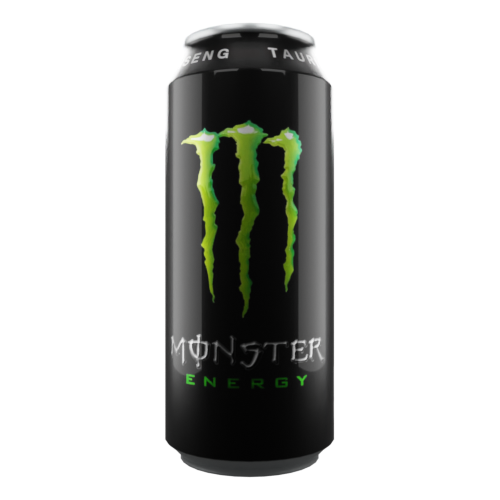
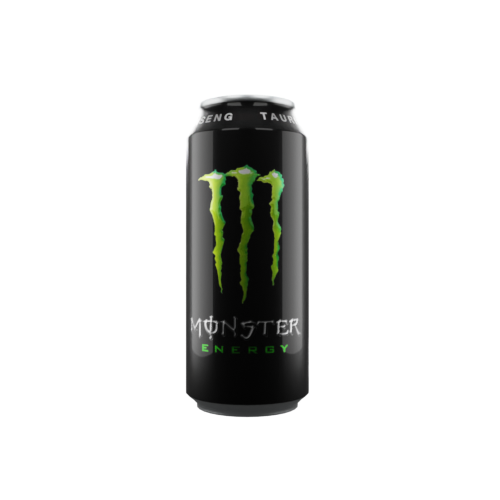
Lagt till kod i CSS som visar produkt och produktanimation när ma hoverar. Lagt till nya bilder för Monsterburken. Lagt till kod i HTML som implementerar bilderna.

Changed region(s): [[0.33, 0.03, 0.69, 0.96]]

diff --git a/index.html b/index.html
@@ -30,63 +30,63 @@
         <div class="outer-container">
             <div class="container">
                 <div class="item box-shadow">
-                    <div class="image"><img class="animation" src="../CanInteBan/images/DrPepperGIF.gif"></div>
+                    <div class="image" style="--initial-image: url('../images/DrPepperPNG.png'); --hover-image: url('../images/DrPepperGIF.gif');"></div>
                     <div class="text-center">DrPepper</div>
                     <div>inklusive pant</div>
                     <div class="pris"><span id="celcius_price">30.00</span> kr</div>
                     <button onclick="addItem('Celsius', 30, 'index')">+</button>
                 </div>
                 <div class="item box-shadow">
-                    <div class="image"><img class="animation" src="../CanInteBan/images/CocaColaGIF.gif"></div>
+                    <div class="image" style="--initial-image: url('../images/CocaColaPNG.png'); --hover-image: url('../images/CocaColaGIF.gif');"></div>
                     <div class="text-center">Coca Cola</div>
                     <div>inklusive pant</div>
                     <div class="pris"><span id="cola_price">17.00</span> kr</div>
                     <button onclick="addItem('Coca Cola', 17, 'index')">+</button>
                 </div>
                 <div class="item box-shadow">
-                    <div class="image"><img class="animation" src="../CanInteBan/images/PepsiMaxGIF.gif"></div>
+                    <div class="image" style="--initial-image: url('../images/PepsiPNG.png'); --hover-image: url('../images/PepsiGIF.gif');"></div>
                     <div class="text-center">Pepsi Max</div>
                     <div>inklusive pant</div>
                     <div class="pris"><span id="cola_zero_price">17.00</span> kr</div>
                     <button onclick="addItem('Coca Cola Zero', 17, 'index')">+</button>
                 </div>
                 <div class="item box-shadow">
-                    <div class="image"><img class="animation" src="../CanInteBan/images/7upGIF.gif"></div>
+                    <div class="image" style="--initial-image: url('../images/MonsterPNG.png'); --hover-image: url('../images/MonsterGIF.gif');"></div>
                     <div class="text-center">7up</div>
                     <div>inklusive pant</div>
                     <div class="pris"><span id="julmust_price">17.00</span> kr</div>
                     <button onclick="addItem('Julmust/Julmust zero', 17, 'index')">+</button>
                 </div>
                 <div class="item box-shadow">
-                    <div class="image"><img class="animation" src="../CanInteBan/images/FantaGIF.gif"></div>
+                    <div class="image"></div>
                     <div class="text-center">Fanta</div>
                     <div>inklusive pant</div>
                     <div class="pris"><span id="latitude_price">30.00</span> kr</div>
                     <button onclick="addItem('Latitude 65', 30, 'index')">+</button>
                 </div>
                 <div class="item box-shadow">
-                    <div class="image"><img class="animation" src="../CanInteBan/images/PepsiGIF.gif"></div>
+                    <div class="image" style="--initial-image: url('../images/PepsiPNG.png'); --hover-image: url('../images/PepsiGIF.gif');"></div>
                     <div class="text-center">Pepsi</div>
                     <div>inklusive pant</div>
                     <div class="pris"><span id="loka_price">17.00</span> kr</div>
                     <button onclick="addItem('Loka/Ramlösa', 17, 'index')">+</button>
                 </div>
                 <div class="item box-shadow">
-                    <div class="image"><img class="animation" src="../CanInteBan/images/ZingoGIF.gif"></div>
+                    <div class="image" style="--initial-image: url('../images/ZingoPNG.png'); --hover-image: url('../images/ZingoGIF.gif');"></div>
                     <div class="text-center">Zingo</div>
                     <div>inklusive pant</div>
                     <div class="pris"><span id="nocco_price">30.00</span> kr</div>
                     <button onclick="addItem('Nocco', 30, 'index')">+</button>
                 </div>
                 <div class="item box-shadow">
-                    <div class="image"><img class="animation" src="../CanInteBan/images/SpriteGIF.gif"></div>
+                    <div class="image"></div>
                     <div class="text-center">Sprite</div>
                     <div>inklusive pant</div>
                     <div class="pris"><span id="pago_price">25.00</span> kr</div>
                     <button onclick="addItem('Pago', 25, 'index')">+</button>
                 </div>
                 <div class="item box-shadow">
-                    <div class="imageMonster"><img class="animation" src="../CanInteBan/images/MonsterGIF.gif"></div>
+                    <div class="image" style="--initial-image: url('../images/MonsterPNG.png'); --hover-image: url('../images/MonsterGIF.gif');"></div>
                     <div class="text-center">Monster</div>
                     <div>inklusive pant</div>
                     <div class="pris"><span id="pepsi_price">17.00</span> kr</div>

diff --git a/css/index.css b/css/index.css
@@ -4,24 +4,13 @@
     height: 100%;
     top: 0;
     left: 0;
-    z-index: -1;
-
-    /* Placeholder images, can be removed */ 
+    background-image: var(--initial-image);
     background-size: cover;   
     background-position: center;
 }
 
-.animation {
-    position: absolute;
-    width: 100%;
-    height: 100%;
-    top: 0;
-    left: 0;
-    z-index: -1;
-
-    /* Placeholder images, can be removed */ 
-    background-size: cover;   
-    background-position: center;
+.image:hover {
+    background-image: var(--hover-image);
 }
 
 .outer-container {
